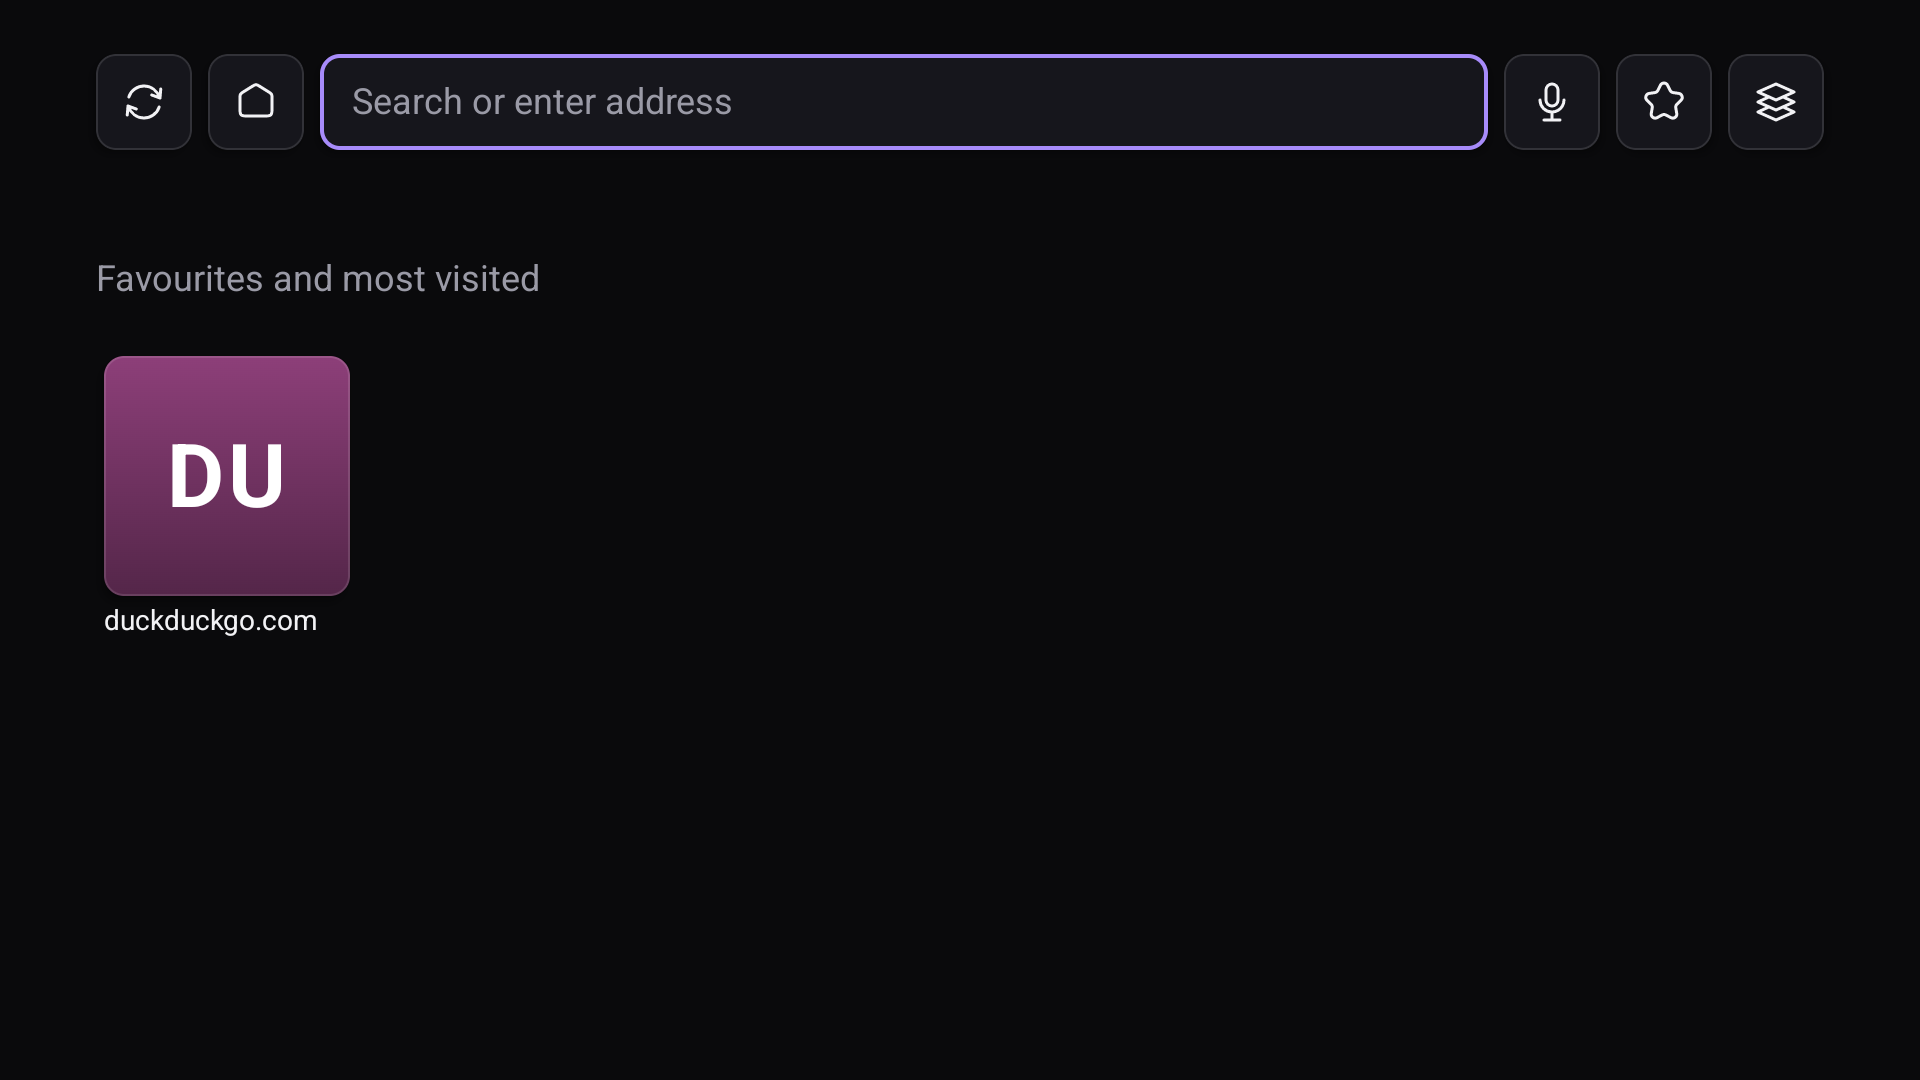
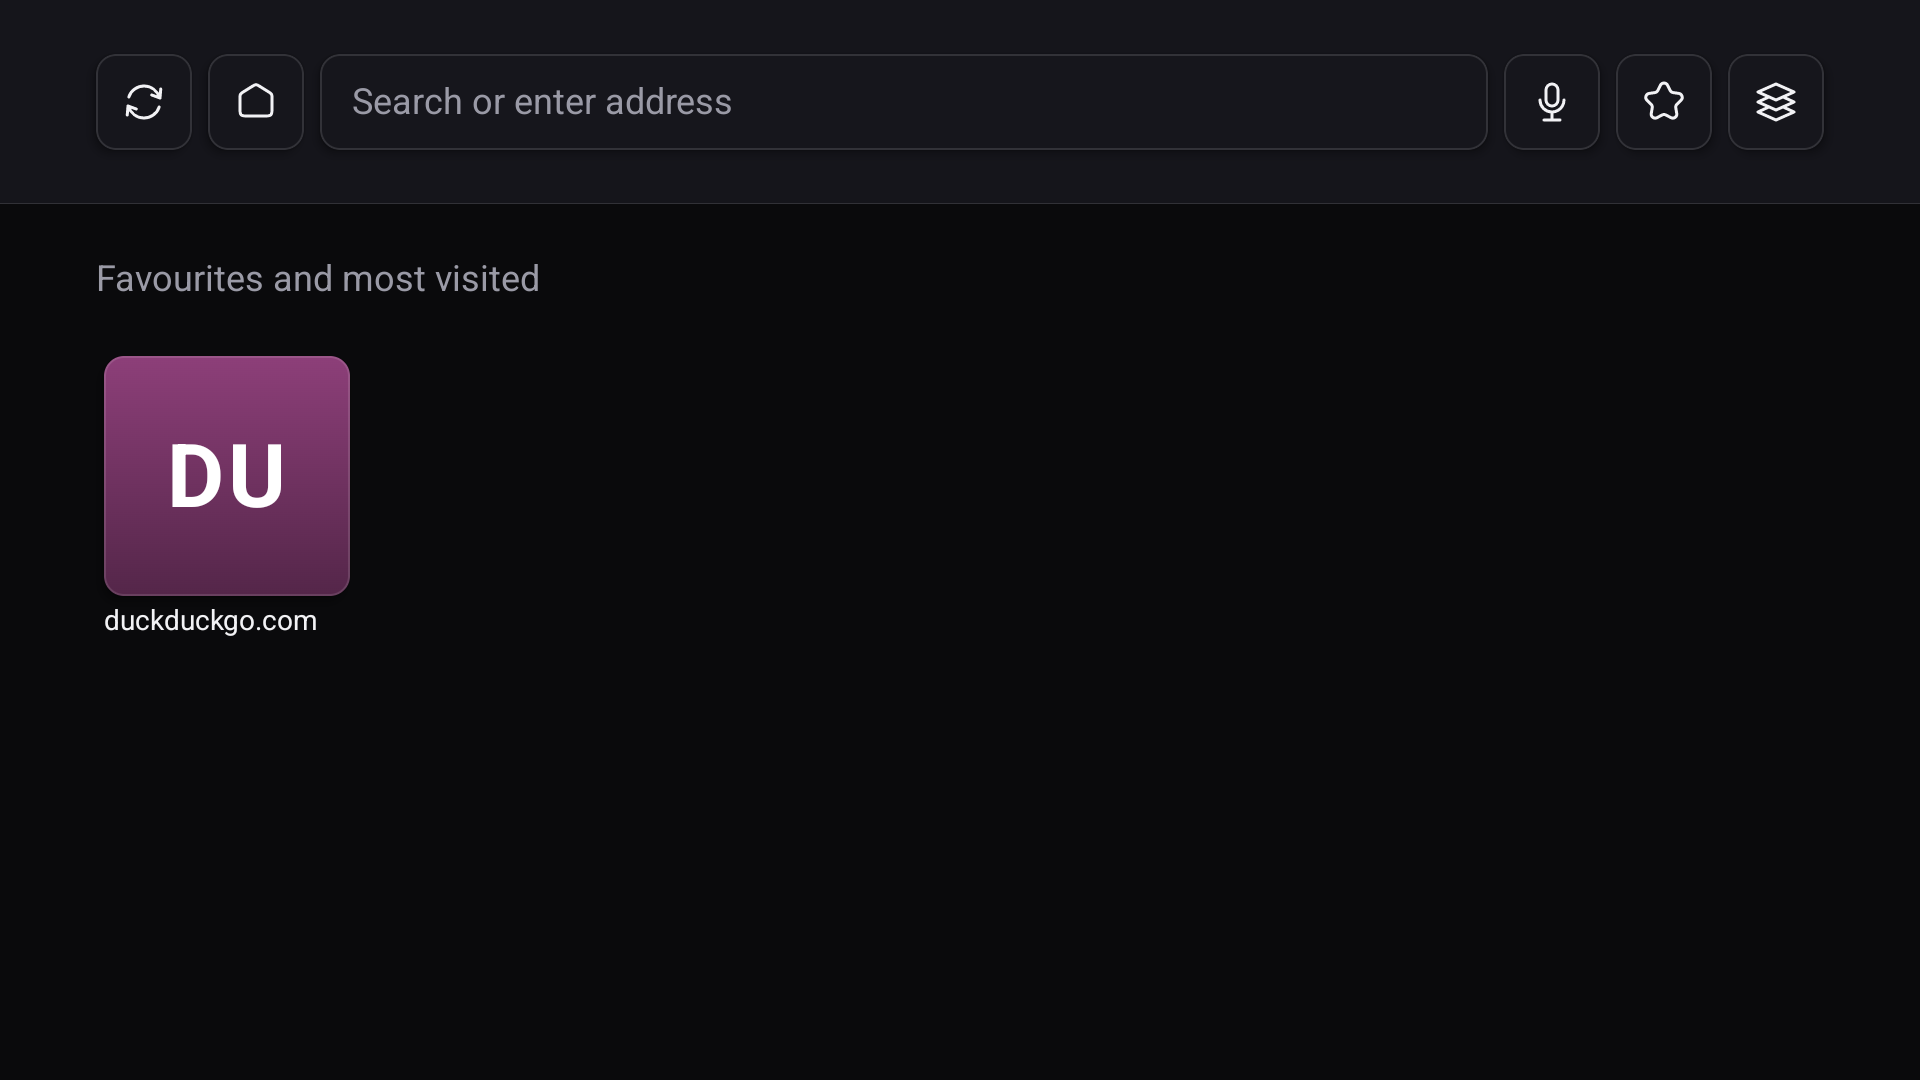
style(ui): a slate palette that agrees with itself, and American spelling
The violet was inherited from the NoMercy media ecosystem, where it sits
on near-black and belongs. On slate it read as a second, unrelated color
arguing with every surface around it. Both palettes are now drawn from
one cool family, so the accent looks like the brightest part of the same
room rather than a sticker applied to it.

Tile colors move with them. A hue taken from the whole wheel put a red
tile beside a green one and the grid stopped looking like one interface;
confined to the teal-to-indigo arc, every site still gets a color it can
be recognised by and they all belong together. The window theme and the
brand assets carry the same values, or the launcher-to-app transition
flashes the old scheme.

User-facing text is American English throughout. Code comments still say
television where they are describing the platform, which is the thing
they are actually about.

Changed region(s): [[0.1562, 0.1222, 0.7812, 0.1528], [0.1875, 0.0306, 0.7812, 0.0611]]

diff --git a/app/src/main/java/com/nomercylabs/browser/ui/Tokens.kt b/app/src/main/java/com/nomercylabs/browser/ui/Tokens.kt
@@ -56,18 +56,27 @@ data class Palette(
 
 object Palettes {
 
+    /**
+     * Slate, not neutral grey, and a cool accent that belongs to it.
+     *
+     * The violet came from the NoMercy media ecosystem, where it sits on
+     * near-black. On slate it reads as a second, unrelated colour fighting the
+     * surfaces around it. Everything here is drawn from one cool family, so the
+     * accent looks like the brightest part of the same room rather than a
+     * sticker applied to it.
+     */
     val Dark = Palette(
-        surface = Color(0xFF0A0A0C),
-        surfaceRaised = Color(0xFF16161C),
-        surfaceOffered = Color(0xFF26262F),
+        surface = Color(0xFF0B0F14),
+        surfaceRaised = Color(0xFF151C24),
+        surfaceOffered = Color(0xFF1F2933),
         outline = Color(0x1FFFFFFF),
-        onSurface = Color(0xFFF2F2F5),
-        onSurfaceMuted = Color(0xFF9A9AA6),
-        accent = Color(0xFFA78BFA),
-        accentDeep = Color(0xFF7C3AED),
+        onSurface = Color(0xFFE8EEF4),
+        onSurfaceMuted = Color(0xFF8B9AA8),
+        accent = Color(0xFF38BDF8),
+        accentDeep = Color(0xFF0369A1),
         danger = Color(0xFFF87171),
-        focusRing = Color(0xFFA78BFA),
-        onAccent = Color(0xFF0A0A0C),
+        focusRing = Color(0xFF38BDF8),
+        onAccent = Color(0xFF06121C),
         isLight = false,
     )
 
@@ -78,16 +87,16 @@ object Palettes {
         // surface and controls sit a step darker on it. White cards on a grey
         // page read as paper on a desk, which is a document, not an interface;
         // this reads as controls on a screen.
-        surface = Color(0xFFF7F7FA),
-        surfaceRaised = Color(0xFFE2E2EA),
-        surfaceOffered = Color(0xFFCFCFDB),
+        surface = Color(0xFFF4F6F8),
+        surfaceRaised = Color(0xFFDCE3EA),
+        surfaceOffered = Color(0xFFC6D1DC),
         outline = Color(0x1F000000),
-        onSurface = Color(0xFF14141A),
-        onSurfaceMuted = Color(0xFF5B5B66),
-        accent = Color(0xFF6D28D9),
-        accentDeep = Color(0xFF4C1D95),
+        onSurface = Color(0xFF0F1720),
+        onSurfaceMuted = Color(0xFF52616F),
+        accent = Color(0xFF0369A1),
+        accentDeep = Color(0xFF075985),
         danger = Color(0xFFB91C1C),
-        focusRing = Color(0xFF6D28D9),
+        focusRing = Color(0xFF0369A1),
         onAccent = Color(0xFFFFFFFF),
         isLight = true,
     )

diff --git a/app/src/main/java/com/nomercylabs/browser/ui/Primitives.kt b/app/src/main/java/com/nomercylabs/browser/ui/Primitives.kt
@@ -508,7 +508,12 @@ fun SiteTile(
  * dark enough that the letter on top stays legible.
  */
 private fun tileColours(origin: String, palette: Palette): List<Color> {
-    val hue: Float = ((origin.hashCode() % HUE_STEPS + HUE_STEPS) % HUE_STEPS).toFloat() / HUE_STEPS
+    // Confined to the cool arc rather than the whole wheel. A free hue puts a
+    // red tile beside a green one on a slate screen, and the grid stops looking
+    // like one interface; inside this band every site still gets its own
+    // recognisable colour and they all belong to the room.
+    val step: Int = (origin.hashCode() % HUE_STEPS + HUE_STEPS) % HUE_STEPS
+    val hue: Float = (HUE_START + step * HUE_SPAN / HUE_STEPS) / 360f
     val saturation: Float = if (palette.isLight) 0.45f else 0.38f
     // Dark enough in either palette to carry white letters, and never so dark
     // that the tile becomes one more black rectangle on a black screen.
@@ -520,6 +525,10 @@ private fun tileColours(origin: String, palette: Palette): List<Color> {
 }
 
 private const val HUE_STEPS: Int = 24
+
+/** Teal through to indigo: the arc the palette itself lives in. */
+private const val HUE_START: Float = 175f
+private const val HUE_SPAN: Float = 90f
 private const val INITIALS: Int = 2
 private const val GRADIENT_LIFT: Float = 0.08f
 private val TILE_LETTER_SPACING = 2.sp
